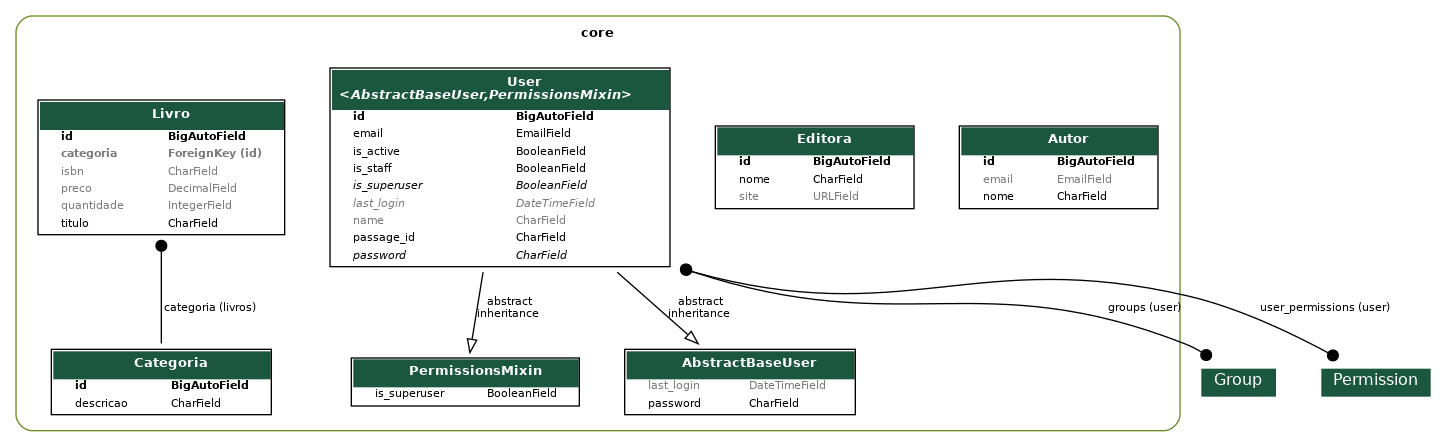
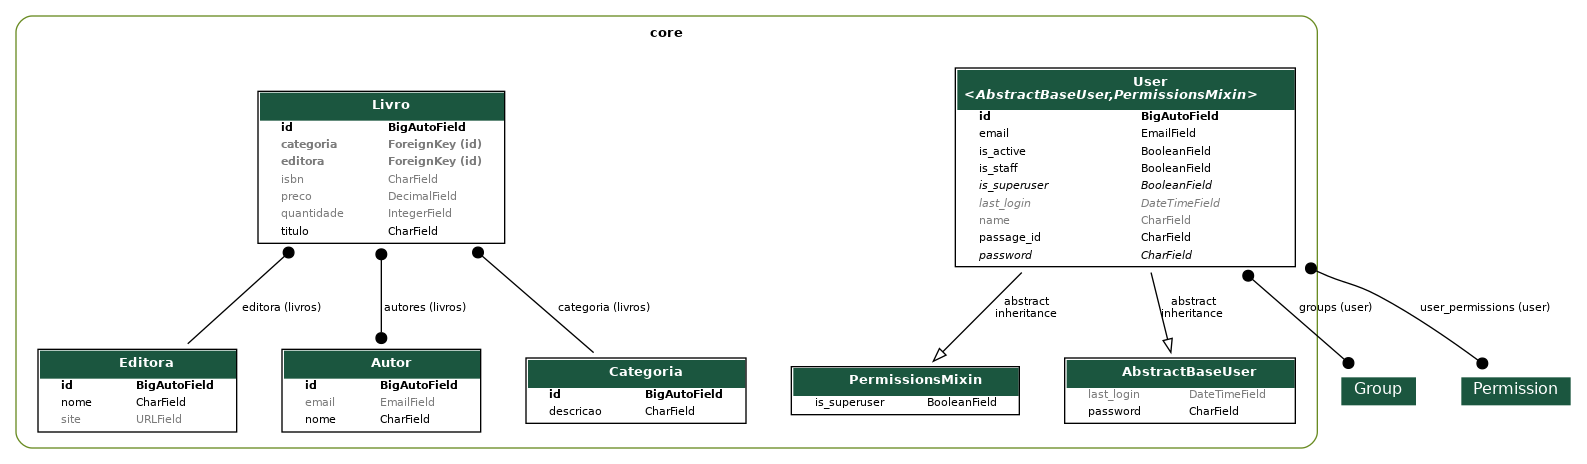
feat: criação de múltiplos serializadores para Livro

diff --git a/core/models/livro.py b/core/models/livro.py
@@ -1,6 +1,8 @@
 from django.db import models
 
+from .autor import Autor
 from .categoria import Categoria
+from .editora import Editora
 
 
 class Livro(models.Model):
@@ -11,6 +13,11 @@ class Livro(models.Model):
     categoria = models.ForeignKey(
         Categoria, on_delete=models.PROTECT, related_name="livros", null=True, blank=True
     )
-
+    editora = models.ForeignKey(
+        Editora, on_delete=models.PROTECT, related_name="livros", null=True, blank=True        
+    )
+    autores = models.ManyToManyField(
+        Autor, related_name='livros', blank=True
+    )
     def __str__(self):
         return f"({self.id}) {self.titulo} ({self.quantidade})"

diff --git a/core/migrations/0014_remove_livro_autor_livro_autores.py b/core/migrations/0014_remove_livro_autor_livro_autores.py
@@ -1,0 +1,22 @@
+# Generated by Django 5.1.7 on 2025-04-22 11:31
+
+from django.db import migrations, models
+
+
+class Migration(migrations.Migration):
+
+    dependencies = [
+        ('core', '0013_livro_autor'),
+    ]
+
+    operations = [
+        migrations.RemoveField(
+            model_name='livro',
+            name='autor',
+        ),
+        migrations.AddField(
+            model_name='livro',
+            name='autores',
+            field=models.ManyToManyField(blank=True, related_name='livros', to='core.autor'),
+        ),
+    ]

diff --git a/core/migrations/0012_livro_editora.py b/core/migrations/0012_livro_editora.py
@@ -1,0 +1,19 @@
+# Generated by Django 5.1.7 on 2025-04-15 11:51
+
+import django.db.models.deletion
+from django.db import migrations, models
+
+
+class Migration(migrations.Migration):
+
+    dependencies = [
+        ('core', '0011_livro_categoria'),
+    ]
+
+    operations = [
+        migrations.AddField(
+            model_name='livro',
+            name='editora',
+            field=models.ForeignKey(blank=True, null=True, on_delete=django.db.models.deletion.PROTECT, related_name='livros', to='core.editora'),
+        ),
+    ]

diff --git a/core/migrations/0013_livro_autor.py b/core/migrations/0013_livro_autor.py
@@ -1,0 +1,19 @@
+# Generated by Django 5.1.7 on 2025-04-22 11:17
+
+import django.db.models.deletion
+from django.db import migrations, models
+
+
+class Migration(migrations.Migration):
+
+    dependencies = [
+        ('core', '0012_livro_editora'),
+    ]
+
+    operations = [
+        migrations.AddField(
+            model_name='livro',
+            name='autor',
+            field=models.ForeignKey(blank=True, null=True, on_delete=django.db.models.deletion.PROTECT, related_name='livros', to='core.autor'),
+        ),
+    ]
